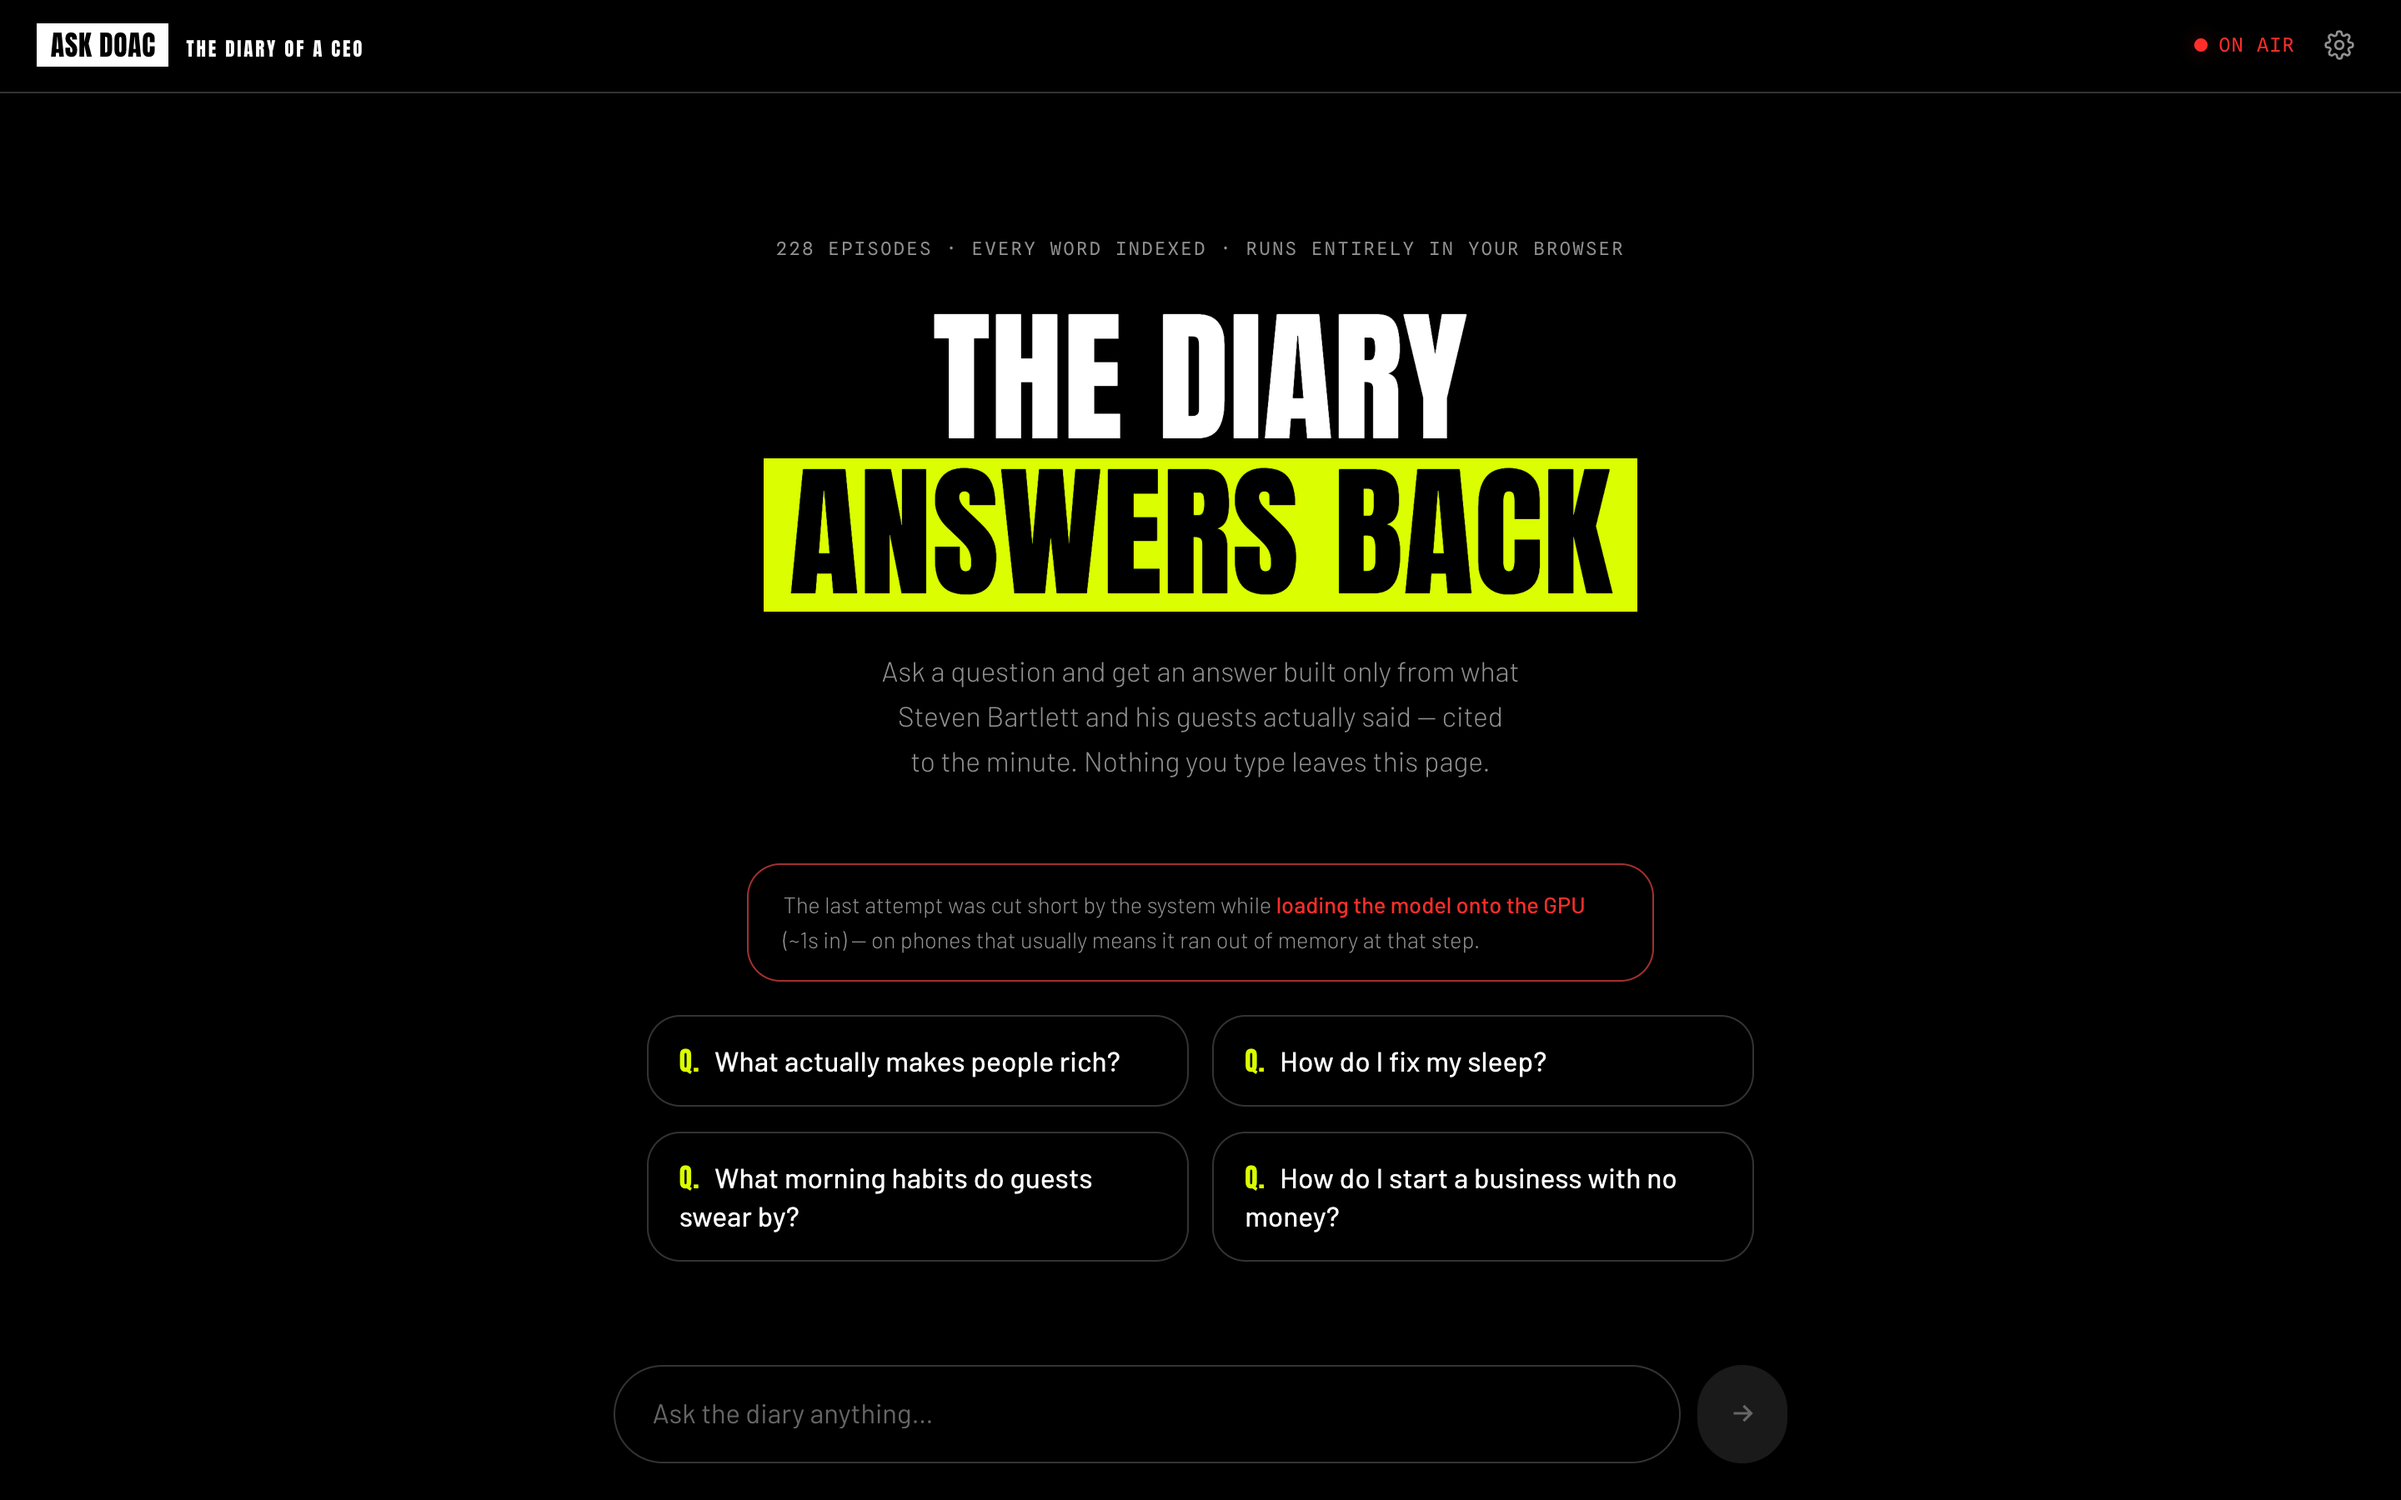
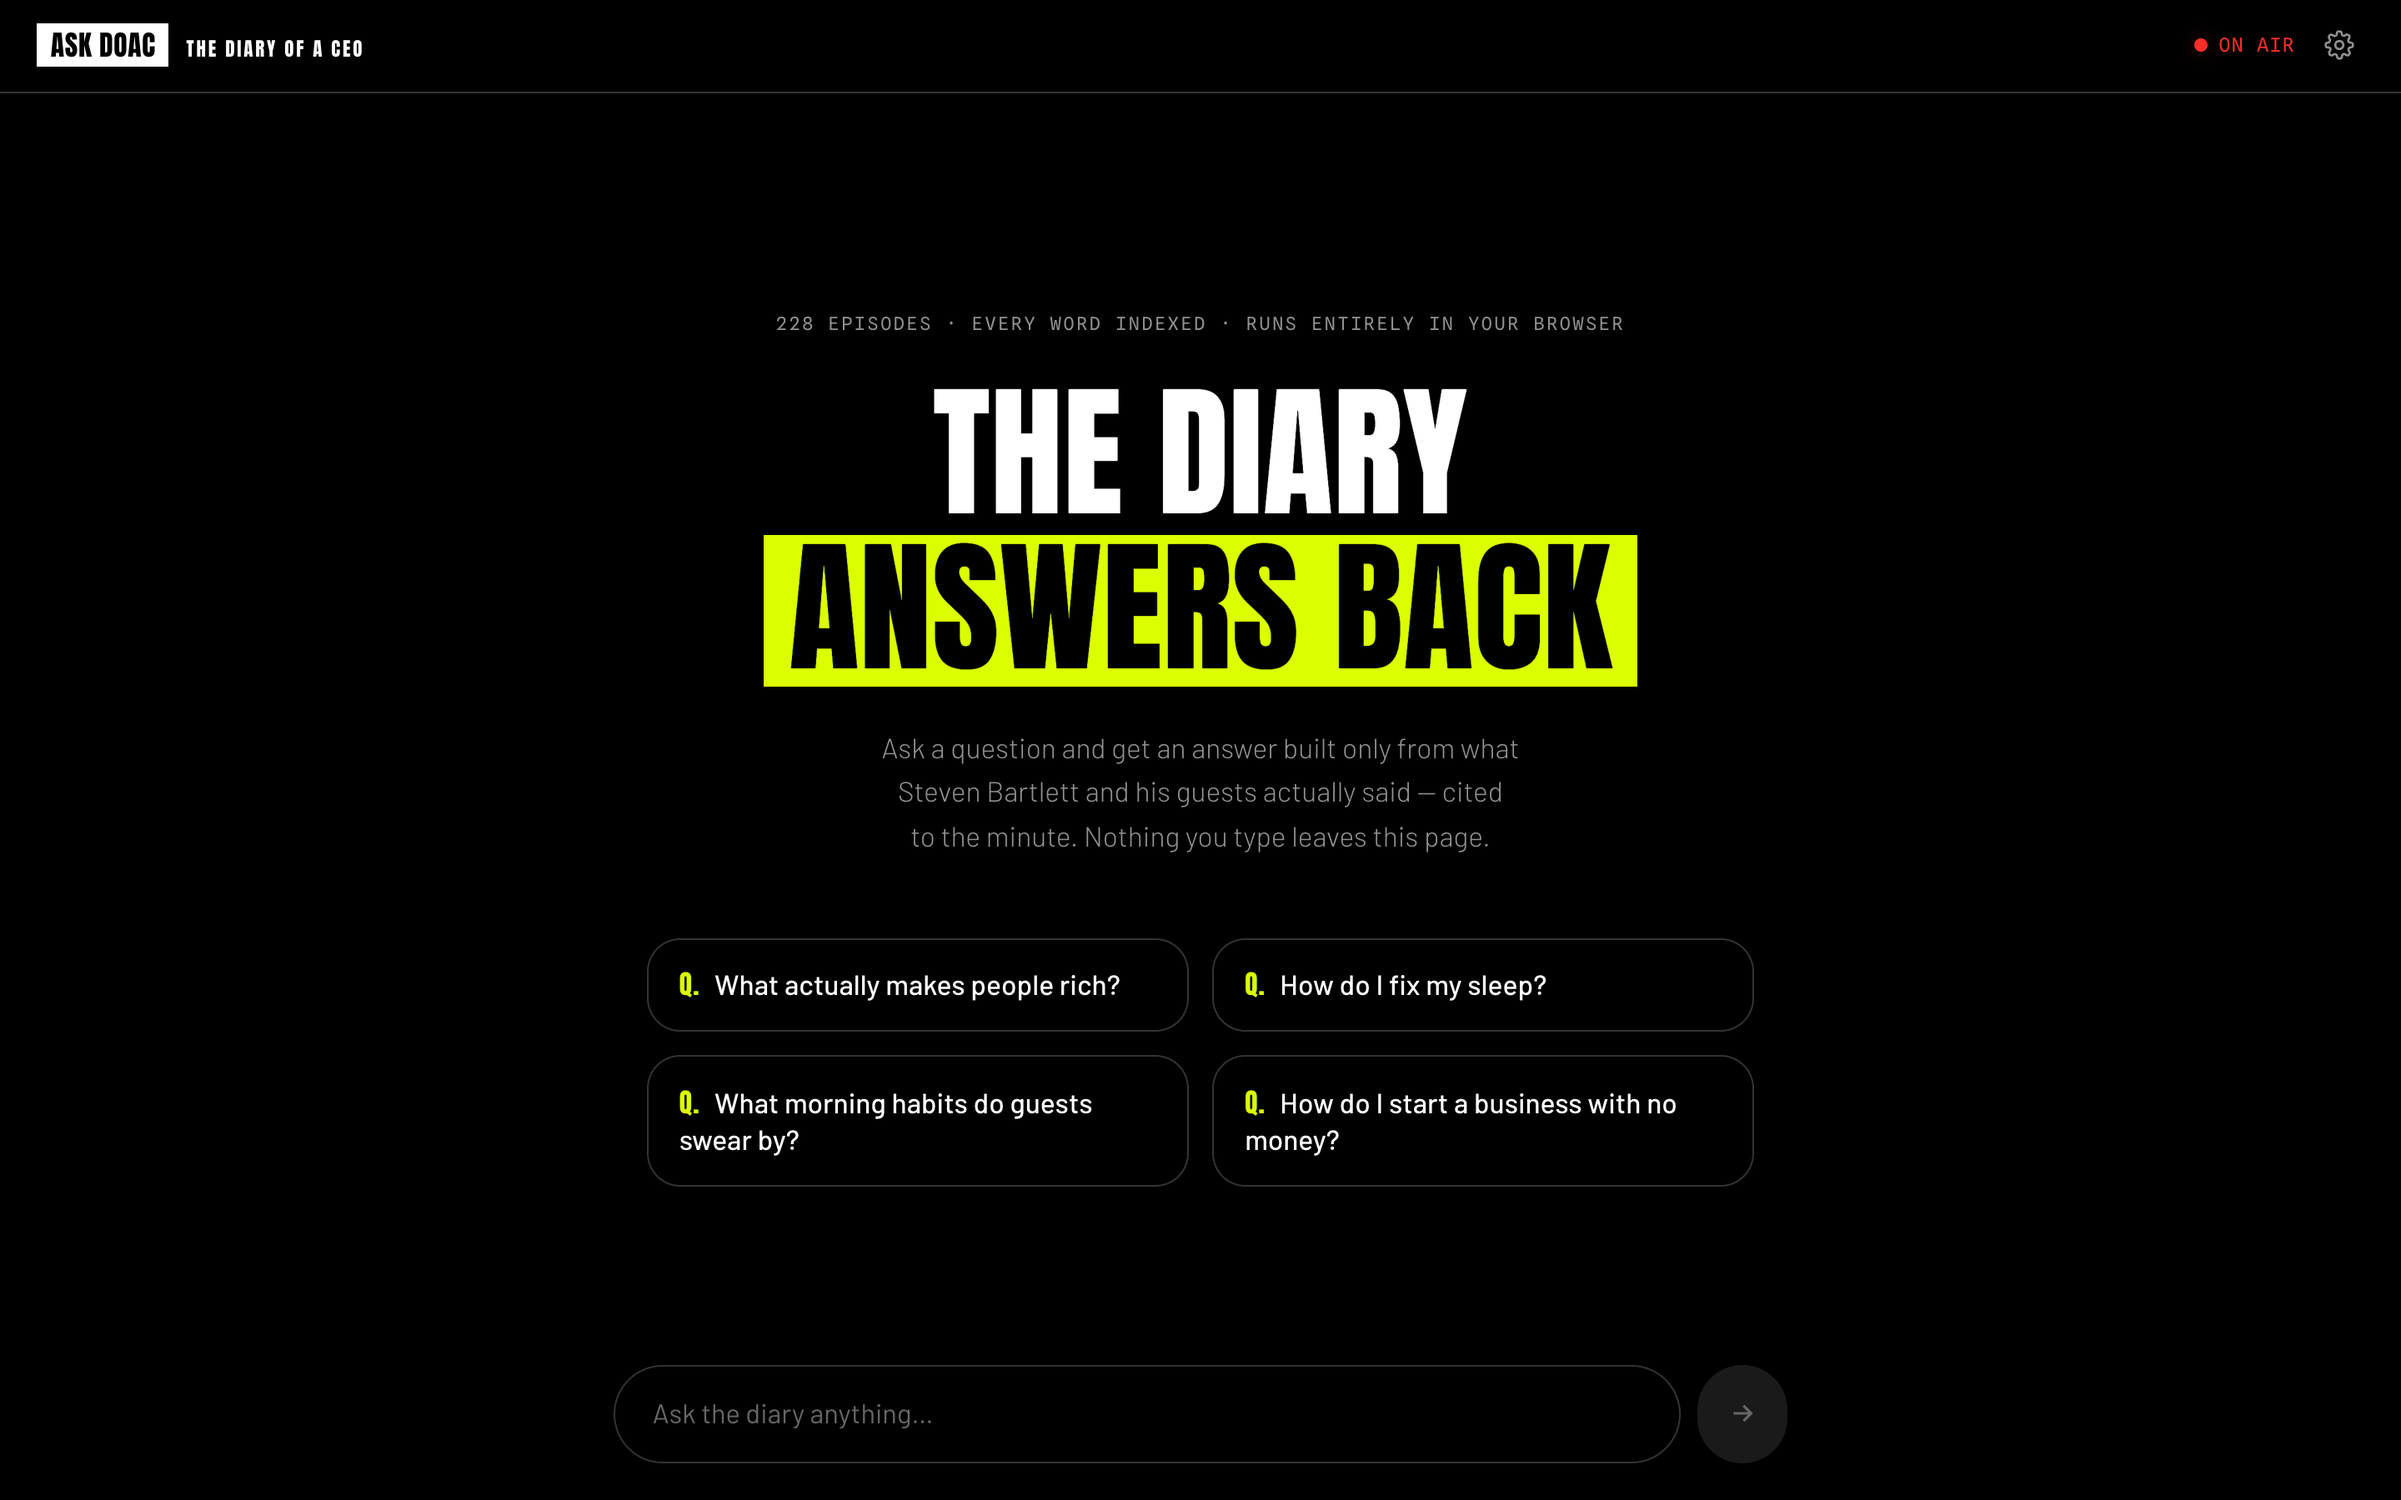
docs: regenerate clean README screenshots and wire them in
The hero shot carried a red "the last attempt was cut short by the system while
loading the model onto the GPU" banner. That warning came from the boot
breadcrumb trail left in the shared e2e Chrome profile by an earlier
interrupted run — it described a previous session in a reused profile, not the
app being photographed. readme.mjs now clears the trail on load, so the shot is
deterministic instead of depending on whatever the profile happens to carry.

Both shots regenerated against the real thing: real Gemma 4 on WebGPU, real
retrieval, no mocks. README gets descriptive alt text, a note that the shots
aren't mocked, and a pointer to the script that rebuilds them. Also corrects
the unit-test count, which had drifted from 25 to 113.

Claude-Session: https://claude.ai/code/session_01X32fqx2raowjp2kvF7cBu9

Changed region(s): [[0.3125, 0.1556, 0.6875, 0.56], [0.2812, 0.5911, 0.6875, 0.84], [0.3438, 0.1556, 0.375, 0.1867]]

diff --git a/README.md b/README.md
@@ -4,9 +4,12 @@ Ask questions, get answers grounded in what Steven Bartlett and his guests actua
 **The Diary of a CEO** — cited to the minute, running **entirely in your browser**. No server,
 no login, no API keys: the LLM, the embeddings, and the search index all live client-side.
 
-![Ask the Diary](docs/hero.png)
+![The landing screen, ON AIR once Gemma has loaded onto the GPU](docs/hero.png)
 
-![A cited answer](docs/conversation.png)
+![An answer about training in your 60s, with eight citations and one transcript excerpt opened](docs/conversation.png)
+
+Both shots are the real thing — real Gemma 4 on WebGPU, real retrieval over the transcripts, no mocks.
+Regenerate them with `node scripts/shots/readme.mjs ["a question"]` (see [Screenshots / E2E](#screenshots--e2e)).
 
 ## How it works
 
@@ -38,13 +41,18 @@ question ──▶ MiniLM embedding (transformers.js, in-browser)
   quantized to int8 (scale-per-row). The browser embeds your question with the same model,
   searches locally, and hands the best excerpts to Gemma with instructions to answer only from
   them and cite `[n]`.
+- **No CDN at boot** — transformers.js would fetch the MiniLM weights from huggingface.co and the
+  ONNX runtime WASM from jsdelivr, so a blocked or flaky CDN broke startup outright. Both are
+  vendored into `static/embedder/` (gitignored) by `scripts/vendor-embedder.mjs`, which `predev`
+  and `prebuild` run for you. Queries use the q8 model — 23 MB instead of 90 MB, and it retrieves
+  near-identically against the fp32-built index (`npx tsx scripts/rag/check-q8.mjs`).
 
 ## Develop
 
 ```bash
 npm install
 npm run dev            # app on :5173 — add ?mock=1 to skip the 2 GB download
-npx vitest run         # 25 unit tests (chunking, quantized search, dedupe, prompt, rendering)
+npx vitest run         # 113 unit tests (chunking, quantized search, dedupe, prompt, rendering)
 ```
 
 ### Rebuild the data (optional)
